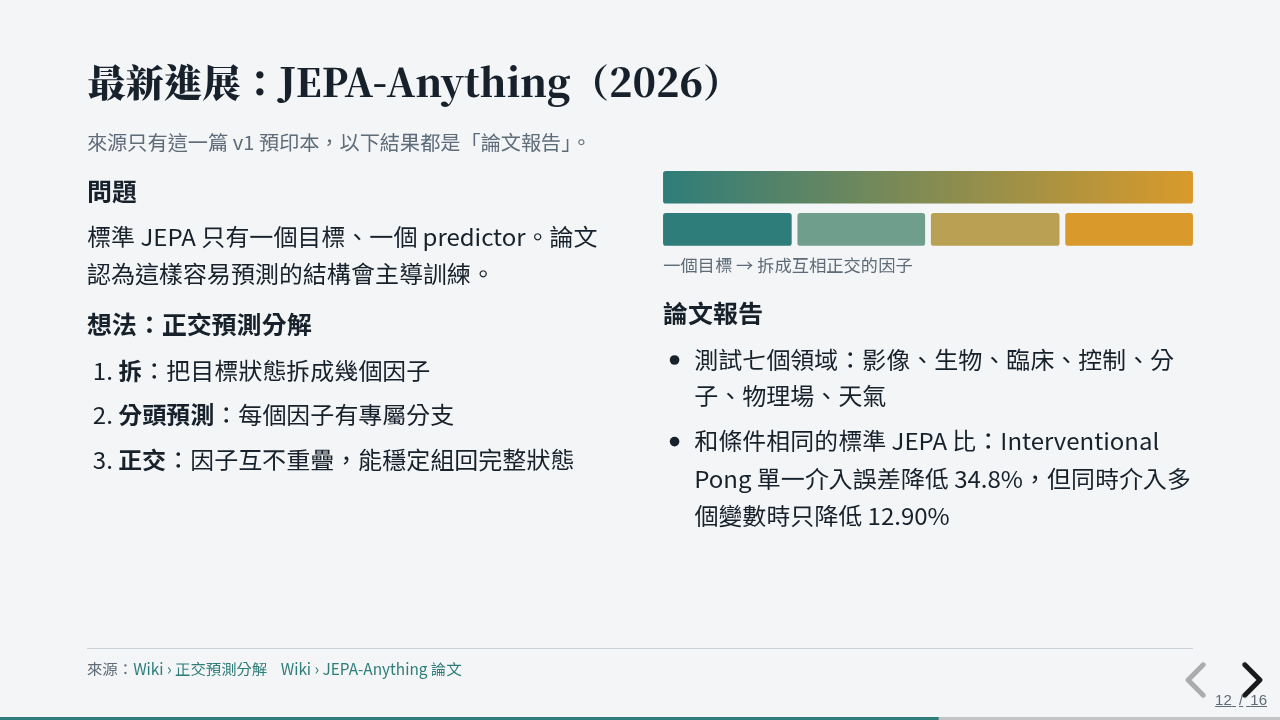
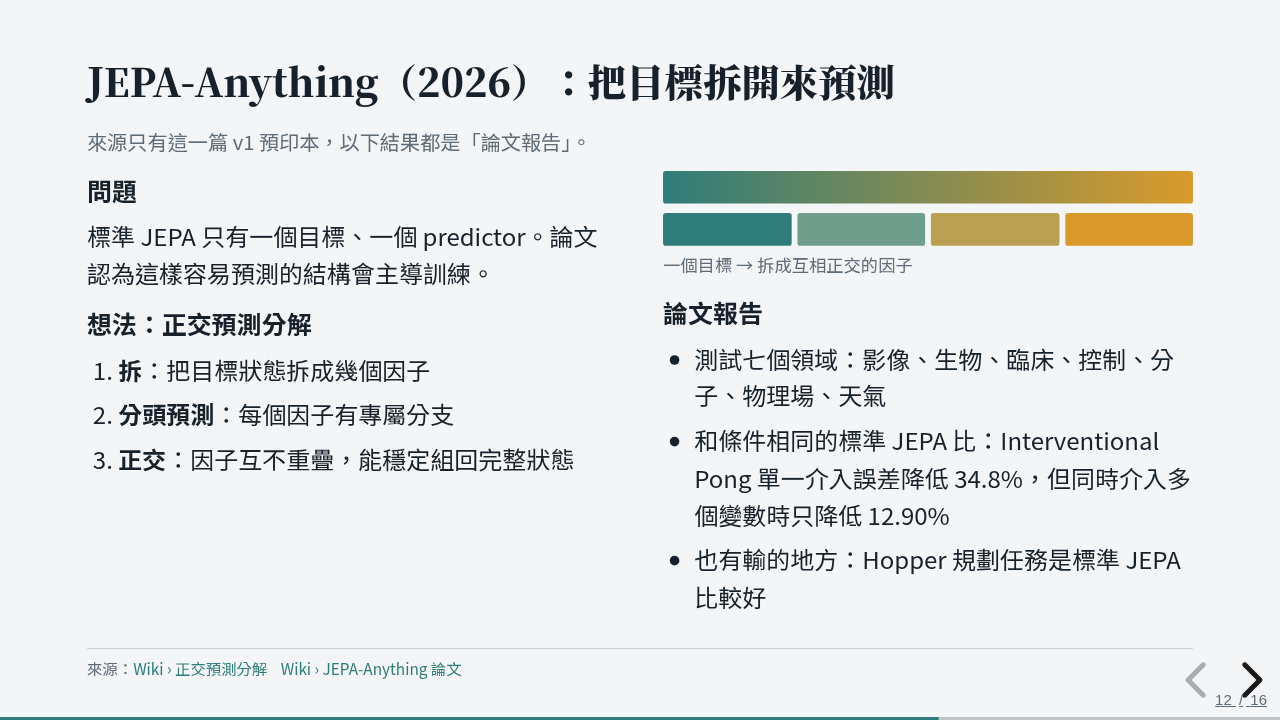
Add submission write-up, run-2 summary, final fixes

Changed region(s): [[0.0625, 0.0917, 0.7188, 0.1528], [0.5312, 0.7639, 0.9375, 0.8556]]

diff --git a/index.html b/index.html
@@ -318,7 +318,7 @@ table.plain th { font-weight: 700; color: var(--muted); font-size: 19px; }
 
 <!-- 10 JEPA-Anything -->
 <section data-wiki="concepts/orthogonal-predictive-factorization.md#核心想法概念版,sources/jepa-anything.md#問題,sources/jepa-anything.md#論文報告的結果,sources/jepa-anything.md#注意,concepts/orthogonal-predictive-factorization.md">
-  <h2>最新進展：JEPA-Anything（2026）</h2>
+  <h2>JEPA-Anything（2026）：把目標拆開來預測</h2>
   <p class="muted small">來源只有這一篇 v1 預印本，以下結果都是「論文報告」。</p>
   <div class="cols">
     <div>
@@ -339,6 +339,7 @@ table.plain th { font-weight: 700; color: var(--muted); font-size: 19px; }
       <ul>
         <li>測試七個領域：影像、生物、臨床、控制、分子、物理場、天氣</li>
         <li>和條件相同的標準 JEPA 比：Interventional Pong 單一介入誤差降低 34.8%，但同時介入多個變數時只降低 12.90%</li>
+        <li>也有輸的地方：Hopper 規劃任務是標準 JEPA 比較好</li>
       </ul>
     </div>
   </div>

diff --git a/submission.md b/submission.md
@@ -1,0 +1,186 @@
+# 〈學校〉 〈學號〉 〈系級〉 〈姓名〉 JEPA
+
+## 1. LLM Wiki 主題與簡介
+
+**主題：JEPA（Joint-Embedding Predictive Architecture）**
+
+JEPA 是 Yann LeCun 提出、Meta 實作的一種自監督學習架構。它的想法是：AI 不必像生成式模型那樣預測下一張圖的每個像素，只要在抽象的「表示」裡預測接下來會發生什麼。這是 LeCun「讓機器學會 world model」構想的核心。
+
+Wiki 照 Karpathy 的 LLM Wiki 做法建立：
+
+- `raw/`：原始資料，不可修改。
+- `wiki/`：AI 維護的 markdown 頁面，包含 `index.md` 目錄和 `log.md` 時間序紀錄。
+- `CLAUDE.md`：規則檔，規定 AI 怎麼 ingest、怎麼查詢、怎麼 lint。
+
+**Ingest 了 6 篇資料**（清單：[raw/SOURCES.md](https://github.com/MikoAL/TAICA_w10/blob/main/raw/SOURCES.md)）：
+
+| 來源 | 在 Wiki 裡的角色 |
+|---|---|
+| Meta 部落格：LeCun 的 world model 構想（2022） | 為什麼需要 world model |
+| Meta 部落格：I-JEPA（2023） | 白話入門 |
+| I-JEPA 論文（CVPR 2023） | 主要範例 |
+| V-JEPA 論文（2024） | 延伸到影片 |
+| VICReg 論文（ICLR 2022） | collapse 與防法 |
+| JEPA-Anything 論文（2026，v1 預印本） | 最新進展 |
+
+**Wiki 的內容**：
+
+- 6 個來源頁。
+- 9 個概念頁：world model、自監督學習、三大流派、JEPA、像素 vs 表示、collapse、遮罩策略、怎麼看數字、正交預測分解。
+- **每一句都附原文的逐字引文**，程式可以自動比對原文。
+- AI 自己加的解釋一律標「（AI 補充）」。
+
+### 先討論、後生成
+- **選主題**：我原本想做電玩，後來拿了一篇 JEPA-Anything 論文問 AI 可不可以用。討論後放棄電玩，改做 JEPA，並把對象定為「TAICA 同學程度」。
+- **生成之前**：6 個 subagent 各讀一篇原文全文，整理重點（85 句引文全部用程式驗證過）。AI 把 6 篇重點、讀到的矛盾、擬建的 15 個頁面和 5 個問題整理給我看。我同意 AI 的建議之後才開始寫 Wiki。
+- 5 個問題是：主要範例選誰、數學放多深、要不要放「JEPA 輸在哪裡」、JEPA-Anything 講多深、LeCun 的六模組放多少。
+- 完整的討論過程和我的原話記在 [wiki/log.md](https://github.com/MikoAL/TAICA_w10/blob/main/wiki/log.md)。
+
+## 2. 連結
+- **LLM Wiki**：https://github.com/MikoAL/TAICA_w10/blob/main/wiki/index.md
+- **教學 HTML 簡報**：https://mikoal.github.io/TAICA_w10/ （方向鍵換頁；按 S 開講者備註）
+- **GitHub Repository**：https://github.com/MikoAL/TAICA_w10
+- 規則檔：[CLAUDE.md](https://github.com/MikoAL/TAICA_w10/blob/main/CLAUDE.md)；流程說明：[README.md](https://github.com/MikoAL/TAICA_w10/blob/main/README.md)
+
+### 簡報的教學結構（16 頁）
+為什麼（20 小時學開車）→ 自監督學習 → 三種「猜」法 → JEPA 三個零件 → collapse → VICReg 三個項 → I-JEPA（主要範例）→ 證據：預測表示 vs 像素 → V-JEPA → 怎麼看數字 → JEPA-Anything → JEPA 輸在哪裡 → LeCun 大藍圖 → 帶走四句話 → 自我檢測（3 題，按鍵顯示答案）
+
+**Wiki 和簡報的對應**：
+
+- 每頁 `<section>` 都有 `data-wiki` 屬性，列出它引用的 Wiki 頁和段落。
+- 頁尾有可點的「來源：Wiki › …」連結。
+- `check_slides.py` 會檢查：引用的頁面和段落存在、頁尾有連結、簡報上的每個數字都出現在被引用的 Wiki 頁。
+
+## 3. Loop / Graph 設計
+
+```mermaid
+flowchart TD
+    A[取得資料<br>下載原文、轉文字、核對標題] --> B[重點整理<br>每篇一個 subagent，附逐字引文]
+    B --> C{引文檢查}
+    C -- 找不到 --> B
+    C -- 通過 --> D[先討論<br>重點＋擬建頁面＋問題給使用者]
+    D -- 使用者回饋 --> E[寫一頁 Wiki]
+    E --> F{逐頁 Wiki 檢查<br>引文／出處／數字／連結＋表格人工對照}
+    F -- 錯誤 --> E
+    F -- 全部通過 --> G[擬大綱<br>只讀 wiki/，每頁要點＋但書＋引用]
+    G --> H{大綱檢查<br>run-2 新增}
+    H -- 缺但書／數字／引用 --> G
+    H -- Wiki 缺資料 --> E
+    H -- 通過 --> I[寫簡報 HTML]
+    I --> J{簡報檢查<br>引用存在、數字對得上}
+    J -- 錯誤 --> I
+    J -- 通過 --> K{語意檢查<br>獨立 subagent 只看簡報＋被引用的 Wiki}
+    K -- UNSUPPORTED／MISLEADING --> I
+    K -- Wiki 本身錯 --> E
+    K -- 通過 --> L{瀏覽檢查<br>1280×720 逐頁量測溢出＋截圖}
+    L -- 問題 --> I
+    L -- 通過 --> M[發布 GitHub Pages]
+```
+
+**資訊怎麼流動**：原文 →（逐字引文）→ Wiki →（`data-wiki` 引用）→ 簡報。
+
+- 寫簡報時**只能讀 Wiki**，不能讀原文，也不能靠模型記憶。所以每一段都能檢查。
+- Wiki → 原文：`check_wiki.py` 逐句比對引文、檢查數字有沒有出現在引文裡。
+- 簡報 → Wiki：`check_slides.py` 檢查引用和數字；語意檢查判斷內容有沒有超出 Wiki。
+
+**哪些步驟會重複**：
+- 重點整理 ⇄ 引文檢查
+- 寫 Wiki ⇄ Wiki 檢查（每頁）
+- 擬大綱 ⇄ 大綱檢查
+- 寫 HTML ⇄ 簡報檢查／語意檢查／瀏覽檢查
+- 兩條「回頭邊」：大綱或語意檢查發現 Wiki 缺資料、或 Wiki 本身寫錯時，回到寫 Wiki。
+
+**哪裡需要檢查或重新生成**：
+
+- 確定性檢查：引文、數字、連結、引用、溢出。程式自動跑，一有錯就重寫那一頁。
+- 語意檢查：有沒有漏但書、有沒有誇大。交給一個**沒看過前文**的 subagent，不合格就重寫那一頁 HTML。
+
+**為什麼這樣設計**：
+1. **便宜的檢查放前面、可以一直重跑；貴的放最後。** 程式檢查一秒跑完，語意檢查每次都要開一個新的 subagent。
+2. **檢查者不能是寫的人。** 寫的人會不自覺用腦中的知識補上漏掉的東西。檢查者只拿到簡報和 Wiki，才看得出簡報有沒有超出 Wiki。
+3. **每一層都留下可比對的痕跡**：引文、`data-wiki`、`log.md`、`logs/`。這樣出錯時查得到是哪一層出的錯。
+
+## 4. 實際執行紀錄
+
+所有原始輸出都在 [logs/](https://github.com/MikoAL/TAICA_w10/tree/main/logs)。
+
+### run-1（第一次完整跑）
+| 節點 | 第一次結果 | 修到通過 |
+|---|---|---|
+| 取得資料 | 6 篇中 1 篇失敗：LeCun 立場論文在 OpenReview，回 403 人機驗證 | 改用 Meta 2022 年介紹同一構想的文章 |
+| 重點整理 | 85 句引文，0 句找不到 | — |
+| **寫 Wiki** | **49 errors**：未引用段落 18、數字不在引文 27、引文找不到 3、其他 1 | 4 次 |
+| 表格人工對照 | 19 個數字都對，但抓到 **1 個敘述錯誤**：Wiki 寫 I-JEPA 表 7「同樣設定只改目標」，原文表格顯示兩組 epoch 是 500 vs 800 | 1 次 |
+| 簡報檢查 | 1 error（誤報：式子的上下標 2、2 被當成「22」） | 2 次 |
+| **語意檢查** | 14 頁中 **4 UNSUPPORTED、2 MISLEADING** | 第 2 次仍有 2 UNSUPPORTED、1 MISLEADING |
+| 瀏覽檢查 | 封面溢出；截圖另外看出背景色沒套用、predictor 被畫成箭頭 | 2 次 |
+
+完整整理：[logs/run-1/SUMMARY.md](https://github.com/MikoAL/TAICA_w10/blob/main/logs/run-1/SUMMARY.md)
+
+**實際抓到的錯誤例子**：
+- 部落格寫「2 million videos」，Wiki 寫成「200 萬支」。數字檢查報錯，改成保留原文數字。
+- I-JEPA 的 PDF 是雙欄排版，有 3 句引文在文字檔裡被另一欄的字插進中間，程式比對不到。改成拆成兩句單欄引文。
+- 簡報寫「預測表示 66.9 vs 像素 40.7」，卻沒寫 Wiki「注意」段落的但書：這只是一組消融實驗，而且 V-JEPA 微調時差距很小。語意檢查判 MISLEADING。
+- 簡報標題寫「最大的陷阱：collapse」，但 Wiki 只說它是「難點」。這是 Wiki 沒有的最高級說法。
+
+### run-2（修改流程後再跑一次）
+新增一頁「VICReg 的三個項」，照新流程走完，並把全部檢查重跑一次。
+| 節點 | 結果 |
+|---|---|
+| 用新的大綱檢查回頭檢查 run-1 的大綱 | 8 列缺但書。run-1 語意問題中有 3 頁屬於這類，**在大綱階段就能攔下** |
+| 大綱檢查 | 第 1 次 2 errors（1 個真的漏但書、1 個誤報）→ 第 2 次 0 |
+| 簡報檢查 | 第 1 次就 0 errors |
+| 語意檢查（整份） | **12 / 2 / 1**（SUPPORTED / UNSUPPORTED / MISLEADING），run-1 第 1 次是 8 / 4 / 2 |
+| 語意複查 | 修過的頁全部通過；過程中發現大綱檢查的漏洞（見反思） |
+| 瀏覽檢查／Wiki 檢查／28 個單元測試 | 全部通過 |
+
+完整整理：[logs/run-2/SUMMARY.md](https://github.com/MikoAL/TAICA_w10/blob/main/logs/run-2/SUMMARY.md)
+
+## 5. 反思
+
+**哪一個節點最常出錯？**
+
+看數量，是**寫 Wiki**：第一次跑就有 49 個錯誤。最大宗是 AI 把自己的解釋、比喻和來源事實混在一起寫，看不出哪句有出處。其次是數字：單位換算、表格數字沒標表號、引的句子裡根本沒有那個數字。
+
+但這些都是程式抓得到的。真正麻煩的是**寫簡報**這一步：錯誤數量少，但全是語意問題，確定性檢查全部漏掉：
+
+- 漏掉 Wiki 寫好的但書。
+- 把「論文認為」寫成事實。
+- 加上 Wiki 沒有的最高級說法。
+- 圖和文字互相矛盾。
+
+這些問題要等 HTML 寫完、跑語意檢查才會被發現。每修一次就要重寫 HTML，再派一個新的 subagent 檢查一次。
+
+**發現問題後，把檢查往前移到哪一個步驟？**
+
+1. **語意的一部分移到「擬大綱」**：新增 `check_outline.py`，在寫 HTML 之前執行。
+   - 大綱每頁多一欄「但書」。只要引用的 Wiki 頁有「注意」段落，這欄就必填。
+   - 大綱裡的數字必須在引用頁找得到。
+   - 用它回頭檢查 run-1 的大綱，run-1 語意問題中有 3 頁在大綱階段就能攔下。
+2. **Wiki 檢查從「整批寫完」移到「每寫完一頁」**。run-1 是 15 頁寫完才第一次檢查，同一種錯誤在每一頁重複出現。
+3. **表格數字的人工對照移到寫 Wiki 的當下**。程式只能確認數字出現在原文某處，不能確認敘述對不對：表 7 的 epoch 錯誤就是人工對照才抓到的。
+
+**有沒有因此修改 workflow / graph？為什麼？**
+
+有。graph 多了「大綱檢查」節點和一條「大綱 → 寫 Wiki」的回頭邊，Wiki 的檢查迴圈改成逐頁。規則檔 `CLAUDE.md` 也加了幾條新規則：
+
+- AI 補充要標「（AI 補充）」。
+- 簡報不能有 Wiki 沒有的最高級說法。
+- 但書不能用「放到別頁」來豁免。
+
+為什麼：**錯誤越晚被發現，修起來越貴。** 在大綱裡補一句但書只要幾秒；在 HTML 寫完後才發現，要改 HTML、重跑簡報檢查、重派語意檢查。
+
+run-2 證明這個修改有效，語意問題從 6 頁降到 3 頁，但也證明它不是萬能：
+
+- 剩下的 3 頁都是措辭和圖的問題，只有語意檢查抓得到，所以語意檢查保留為最後一道關卡。
+- run-2 也找到新檢查本身的漏洞：我在大綱寫「Hopper 的但書放到別頁」，`check_outline.py` 把它當成合格的理由放行，語意檢查卻判 MISLEADING。這條規則目前寫在 `CLAUDE.md`，靠語意檢查把關，程式還沒擋。
+
+**檢查本身也需要被檢查**。過程中遇到的檢查程式誤報和漏洞：
+
+- **條列編號「1.」、`$$` 數學式被當成數字**：修改程式，補了測試。
+- **表格數字原本只給警告**：改成「至少要出現在原文」，補了測試。
+- **找不到大綱表格時默默回報 0 列**：改成報錯，補了測試。
+- **式子的上下標黏成「22」**：改了簡報的寫法，程式沒改。
+- **「放到別頁」的但書豁免**：目前只寫成規則，靠語意檢查把關。
+
+目前共 28 個單元測試。

diff --git a/logs/run-2/SUMMARY.md b/logs/run-2/SUMMARY.md
@@ -1,0 +1,32 @@
+# run-2 總結：修改後的流程實際跑一次
+
+## 改了什麼（依 run-1 結果）
+1. **新節點「大綱檢查」**（`scripts/check_outline.py`，7 個測試）放在寫 HTML **之前**：
+   - 引用的 Wiki 頁和錨點要存在。
+   - 大綱裡的數字要在引用頁裡找得到。
+   - 引用頁有「注意」段落時，「但書」欄必填（或寫「無：理由」）。
+2. **Wiki 檢查改成逐頁**：每寫完一頁就跑 `check_wiki.py`，不等整批寫完（寫進 `CLAUDE.md` 的 Ingest 步驟）。
+3. 新規則寫進 `CLAUDE.md`：
+   - 簡報不能有 Wiki 沒有的最高級說法。
+   - Wiki 的（AI 補充）在簡報要放 AI 補充框。
+
+## 這一輪做了什麼
+新增一頁「VICReg 的三個項」，並在 I-JEPA 頁補上但書。照新流程走：大綱 → 大綱檢查 → HTML → 簡報檢查 → 語意檢查 → 瀏覽檢查。全部檢查重新跑一次。
+
+## 結果
+| 節點 | 結果 | 紀錄 |
+|---|---|---|
+| 回頭檢查：用 `check_outline.py` 檢查 **run-1 的大綱** | 8 列缺但書。run-1 語意檢查抓到的 6 頁問題中，有 3 頁（證據、JEPA-Anything、總結）屬於漏掉但書，**在大綱階段就能攔下**；另外 3 頁（引用範圍、用詞、答案措辭）大綱檢查抓不到 | `outline-retro.txt` |
+| 大綱檢查（新大綱）第 1 次 | 2 errors：1 個真的漏了但書（第 3 頁引用「像素 vs 表示」但沒處理它的注意）；1 個誤報（但書欄寫「第 13 頁」被當成數字） | `outline-pass1.txt` |
+| 大綱檢查第 2 次 | 0 errors | `outline-pass2.txt` |
+| 簡報檢查 | 第 1 次就 0 errors（16 頁） | `slides.txt` |
+| 語意檢查（整份 15 個內容頁） | **12 SUPPORTED / 2 UNSUPPORTED / 1 MISLEADING**（run-1 第 1 次是 8 / 4 / 2） | `semantic.md` |
+| 語意複查（修過的 4 頁） | 3 SUPPORTED / 1 MISLEADING（第 12 頁：只列改善，沒寫 Hopper 輸） | `semantic-recheck.md` |
+| 第 12 頁再複查 | **SUPPORTED**（補上 Hopper 的但書、標題改成中性說法） | `semantic-recheck.md` |
+| 瀏覽檢查 | 16 頁 0 溢出、0 console error | `browser.txt`、`shots/` |
+| Wiki 檢查／單元測試 | errors=0；28 個測試全過 | `wiki.txt`、`tests.txt` |
+
+## 學到的
+- **往前移有用，但不是萬能**：大綱檢查擋住了「漏但書」這一類，語意問題從 6 頁降到 3 頁。剩下的都是**措辭**問題（把「認為」寫成事實、圖和文字矛盾），只有語意檢查抓得到。
+- **檢查本身有漏洞**：第 12 頁的但書在大綱寫成「放到別頁」，`check_outline.py` 把它當成合格的「無：理由」放行，語意檢查卻判它 MISLEADING。`CLAUDE.md` 的規則已改成：引用頁的注意，**本頁也要寫**（這條目前靠語意檢查把關，`check_outline.py` 沒有擋）。
+- run-2 沒有新增 Wiki 頁，所以「Wiki 逐頁檢查」這個修改這輪還沒實際跑到，只寫進了流程。

diff --git a/slides/outline.md b/slides/outline.md
@@ -17,7 +17,7 @@
 | 8 | 預測表示真的比較好？ | 證據 | 66.9 vs 40.7（像素版本 800 vs 500 epoch）；V-JEPA 一致；16 張 A100、72 小時、約 5 倍迭代 | 表 7 只是一組消融；V-JEPA 微調差距很小 85.4 vs 85.6 | `concepts/pixel-vs-feature-prediction.md#證據`、`#注意`、`sources/ijepa.md#結果` |
 | 9 | 從圖片到影片：V-JEPA | 延伸 | 2 million 支影片；K400 81.9%、SSv2 72.2%；動作 +21；label-efficient | 無：V-JEPA 頁的「注意」放在「JEPA 輸在哪裡」頁 | `sources/vjepa.md#一句話`、`#結果` |
 | 10 | 怎麼看這些數字 | 讀懂評估 | linear probe / 凍結 / 微調 / 低樣本（1% ≈ 12 或 13 張） | JEPA 優勢主要在凍結和低樣本，微調時變小 | `concepts/frozen-evaluation.md#linear-probe線性探測`、`#frozen-evaluation凍結評估`、`#fine-tuning微調`、`#low-shot低樣本`、`#為什麼要分清楚` |
-| 11 | 最新進展：JEPA-Anything | 前沿 | 論文認為單一目標讓容易的結構主導；拆成正交因子；七個領域；Pong −34.8% | v1 預印本；和標準 JEPA 比；組合介入只有 12.90%；Hopper 輸（放在「JEPA 輸在哪裡」頁） | `concepts/orthogonal-predictive-factorization.md#核心想法概念版`、`sources/jepa-anything.md#問題`、`#論文報告的結果`、`#注意`、`concepts/orthogonal-predictive-factorization.md` |
+| 11 | JEPA-Anything：把目標拆開來預測 | 前沿 | 論文認為單一目標讓容易的結構主導；拆成正交因子；七個領域；Pong −34.8% | v1 預印本；和標準 JEPA 比；組合介入只有 12.90%；Hopper 輸（本頁也要寫，不能只放到別頁） | `concepts/orthogonal-predictive-factorization.md#核心想法概念版`、`sources/jepa-anything.md#問題`、`#論文報告的結果`、`#注意`、`concepts/orthogonal-predictive-factorization.md` |
 | 12 | JEPA 輸在哪裡 | 批判思考 | 微調 87.1 vs 87.8；ImageNet 74.8 vs 75.1；Hopper；drops by 12%（287 → 29 張，80.6 → 68.2）；兩到 10 倍沒說跟誰比 | 本頁就是但書頁 | `sources/ijepa.md#注意jepa-不是全面勝出`、`sources/vjepa.md#注意`、`sources/jepa-anything.md#注意`、`sources/meta-ijepa-blog.md#注意` |
 | 13 | 回到大藍圖：LeCun 的六個模組 | 收束到願景 | 六模組；world model 核心是 JEPA；predictor 是原始的 world model | 仍是研究方向，未來幾十年的主要挑戰 | `concepts/world-model.md#lecun-的六模組架構一頁帶過`、`#注意`、`#和-jepa-的關係` |
 | 14 | 帶走四句話 | 複習 | 預測表示；忽略不重要的細節，66.9 vs 40.7；難點 collapse；不是全面勝出 | 第 4 句本身就是但書 | `concepts/jepa.md#一句話`、`#為什麼不預測像素`、`concepts/pixel-vs-feature-prediction.md#證據`、`concepts/collapse.md#怎麼防`、`sources/ijepa.md#注意jepa-不是全面勝出`、`sources/vjepa.md#注意`、`sources/jepa-anything.md#注意` |

diff --git a/logs/run-2/semantic-recheck.md b/logs/run-2/semantic-recheck.md
@@ -1,0 +1,16 @@
+# 語意複查（run-2，第 2、5、12、16 頁）
+
+| 頁 | 標題 | 判定 | 問題 |
+|---|---|---|---|
+| 2 | 人 20 小時學會開車，AI 呢？ | SUPPORTED | 先前問題已修正：data-wiki 已加入 sources/meta-lecun-blog.md#摘要，支持「LeCun 主張關鍵是 world model」；「LeCun 認為：差別在於人類靠觀察累積了大量背景知識」保留「認為」的保留語氣。其餘（20 小時、上百萬／上十億筆標註資料、補資訊與預測狀態）皆與 world-model.md 一致。 |
+| 5 | JEPA 的三個零件 | SUPPORTED | 先前矛盾已修正：下排改為「圖片（輸入不遮）→ Target encoder → 取出 y 區域的表示（遮的是輸出）」，與 sources/ijepa.md「遮住 target encoder 的輸出，不是遮住輸入」一致。公式、L2、EMA、「下一頁 collapse」（第 6 頁確為 collapse）皆有據。 |
+| 12 | 最新進展：JEPA-Anything（2026） | MISLEADING | (1) 「尚未經過同儕審查」已移除，改為「來源只有這一篇 v1 預印本」（OPF 頁的普通引言），先前問題已修正。(2) 新問題：只列出 34.8% 與 12.90% 的改善，漏掉 wiki「注意」節（已被 data-wiki 引用）的 Hopper 規劃任務是標準 JEPA 較好，初學者易以為 OPF 全面勝出。(3) 小問題：標題「最新進展」在 wiki 只出現在（AI 補充）「角色：JEPA 的最新進展」，投影片未放入 ai-note 框；建議改為中性標題或加框。 |
+| 16 | 自我檢測 | SUPPORTED | 先前問題已修正：data-wiki 已加入 concepts/pixel-vs-feature-prediction.md#生成式預測像素，支持 MAE 在像素（輸入）空間算 loss。其餘答案（collapse、EMA+stop-gradient、凍結評估／低樣本優勢、I-JEPA 微調略輸 MAE）皆有據。 |
+
+## 統計
+SUPPORTED 3 / UNSUPPORTED 0 / MISLEADING 1
+
+## 第 12 頁再複查
+| 頁 | 標題 | 判定 | 問題 |
+|---|---|---|---|
+| 12 | JEPA-Anything（2026）：把目標拆開來預測 | SUPPORTED | 先前兩項問題皆已修正：(1) 已新增「也有輸的地方：Hopper 規劃任務是標準 JEPA 比較好」，並同時列出 34.8%（單一介入）與 12.90%（多變數介入），與 wiki「注意」節一致；(2) 標題已不含「最新進展」，改用中性標題，未使用（AI 補充）的「角色」句，也未使用（AI 補充）的「尚未經過同儕審查」與比喻。逐項核對（七個領域、matched baseline、三步驟、問題診斷）皆有 cited 頁面支持。輕微備註（不影響判定）：長條圖畫成四個等大因子，「四個」與等大是示意，wiki 只說「幾個成分」；圖說「一個目標 → 拆成互相正交的因子」本身無數量主張，可接受。 |

diff --git a/wiki/log.md b/wiki/log.md
@@ -58,3 +58,20 @@
 ## [2026-11-23 02:10] check | 表格數字人工核對（`logs/run-1/table-check.md`）
 - 19 個表格數字逐一對照原文表格列，全部數字正確。
 - **但抓到一個語意錯誤**：Wiki 寫 I-JEPA 表 7「同樣的設定，只改目標」，實際兩組訓練 epoch 是 500 vs 800。數字對、敘述錯，確定性檢查抓不到。已修正（第 4 次：0 errors）。
+
+## [2026-11-23 02:30] query | 擬大綱、寫簡報（run-1）
+- 只讀 `wiki/` 擬 `slides/outline.md`（15 頁），再寫 `index.html`（reveal.js 6.0.2）。
+- `check_slides.py` 第 1 次：1 error，式子的 `<sub>2</sub><sup>2</sup>` 被當成數字 22（誤報）→ 改成 Unicode ₂²。
+- 語意檢查（獨立 subagent，只看簡報與被引用的 Wiki）第 1 次：**8 SUPPORTED / 4 UNSUPPORTED / 2 MISLEADING**，問題是漏但書、把「論文認為」寫成事實、引用範圍不足。修正後第 2 次：11 / 2 / 1，剩下最高級說法（「最大的陷阱」）、架構圖遮輸入／遮輸出不一致、把 AI 補充當事實。
+- 瀏覽檢查：封面溢出；截圖看出背景色沒套用、predictor 被畫成箭頭 → 修正後 0 溢出。
+
+## [2026-11-23 02:50] workflow | run-1 → run-2 的流程修改（`logs/run-1/SUMMARY.md`）
+- 最常出錯的節點：寫 Wiki（49 個格式／出處錯誤），但最難抓的是寫簡報的語意錯誤（只有最後的語意檢查抓得到）。
+- 把「但書」「引用範圍」「數字」的檢查往前移到大綱：新增 `check_outline.py`，寫 HTML 前執行。
+- Wiki 格式檢查改成每頁寫完就跑。
+
+## [2026-11-23 03:00] query | run-2：新增 VICReg 頁，照新流程跑（`logs/run-2/SUMMARY.md`）
+- 用新檢查回頭檢查 run-1 大綱：8 列缺但書，其中 3 列對應 run-1 語意檢查的真實問題。
+- 新大綱第 1 次：2 errors（1 真的漏但書、1 誤報）→ 第 2 次 0。
+- 簡報檢查第 1 次就 0 errors。語意檢查 12 / 2 / 1（run-1 是 8 / 4 / 2）。
+- 複查發現大綱檢查的漏洞：但書寫「放到別頁」也會被放行 → 改規則。

diff --git a/CLAUDE.md b/CLAUDE.md
@@ -67,7 +67,7 @@ sources: [ijepa, meta-ijepa-blog]
 - 每個內容頁 `<section data-wiki="concepts/jepa.md#錨點,...">`，頁尾 `<footer class="src">` 列出可點的 Wiki 頁（連到 GitHub）。
 - 簡報裡的數字必須出現在它引用的 Wiki 頁。
 - 數學只放一個式子（L2 距離）；VICReg 只講直覺。
-- **先寫 `slides/outline.md`，跑 `python3 scripts/check_outline.py` 到 errors=0，才寫 HTML**（run-2 加入）。大綱每頁要有「但書」欄：引用的 Wiki 頁有「注意」段落時必填，或寫「無：理由」。
+- **先寫 `slides/outline.md`，跑 `python3 scripts/check_outline.py` 到 errors=0，才寫 HTML**（run-2 加入）。大綱每頁要有「但書」欄：引用的 Wiki 頁有「注意」段落時必填，或寫「無：理由」。**理由不能是「放到別頁」**：引用了那一頁的數字或結論，那一頁的但書就要寫在同一頁（run-2 語意複查發現的漏洞；目前靠語意檢查把關，程式沒有擋）。
 - 簡報不能出現 Wiki 沒有的最高級說法（最大、最好…）；Wiki 標（AI 補充）的內容在簡報要放 `.ai-note` 框。
 - `python3 scripts/check_slides.py` errors=0、語意檢查無 UNSUPPORTED／MISLEADING、`node scripts/check_browser.mjs` 無溢出，才算完成。
 
